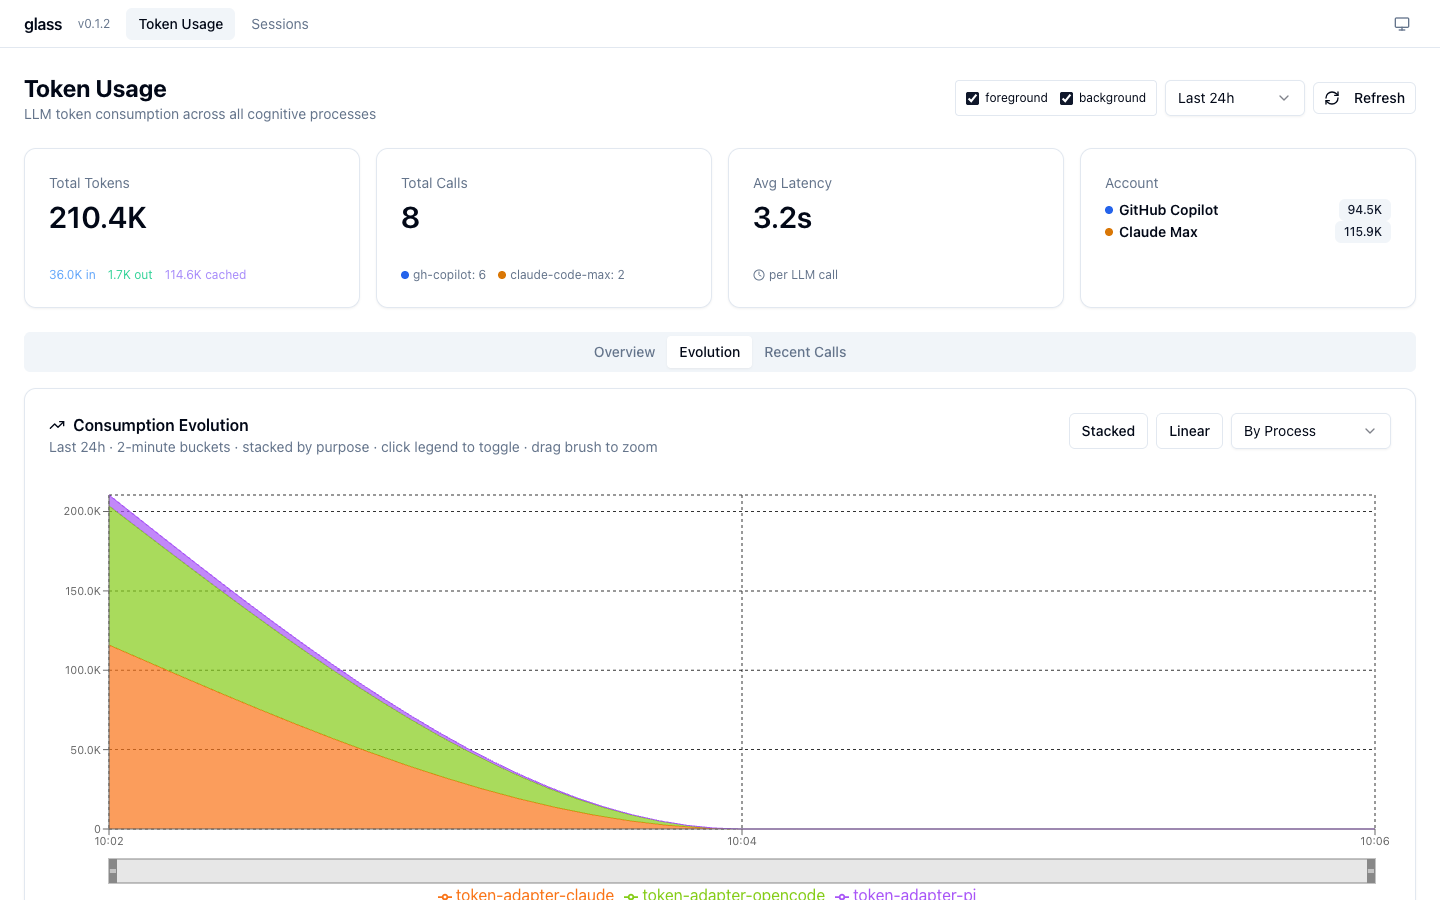
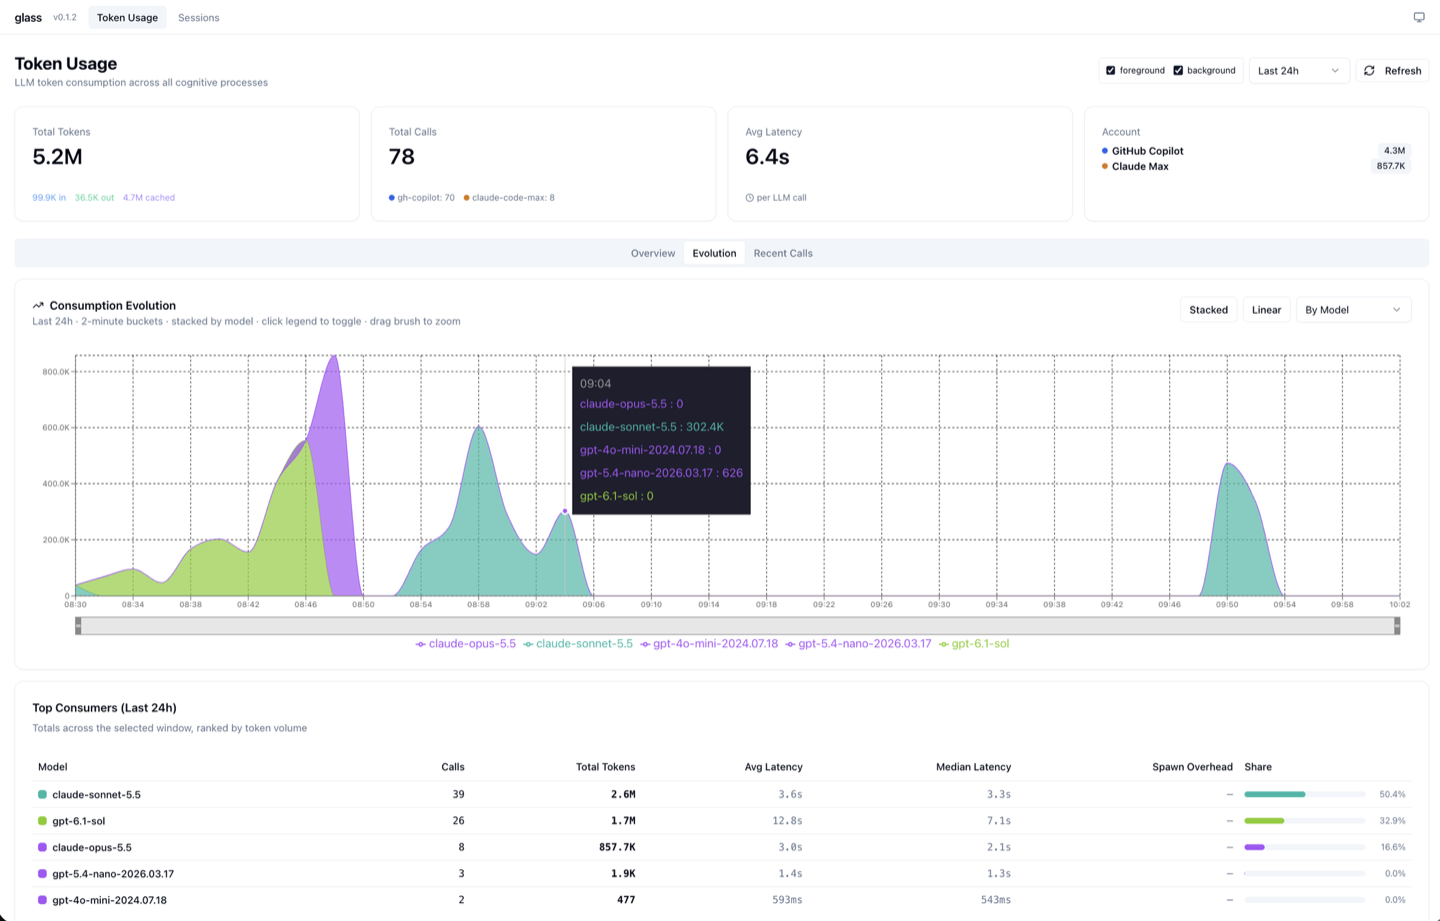
feat(glass): coding's [N:… P:…] badge, daemon version check, quiet EPIPE
- Status line: the network field is coding's badge (N:CN/VPN/OPEN/??,
  P:ON/AUTO/OFF) from the extracted lib/network probes and hysteresis,
  polled every 15s while a session is live (lib/glass/network.mjs); glass
  only observes. The net report shows location, local proxy and px toggle.
- An older daemon left running after an update is replaced when it has no
  live session; with sessions it is joined with a warning. status and
  doctor show a version mismatch.
- `glass status | head` no longer crashes with EPIPE.
- Docs: the Token Usage evolution screenshot (quick and deep tier), the
  status-line badge, troubleshooting.

diff --git a/glass/overlay/docs/_tiers/status-line.deep.md b/glass/overlay/docs/_tiers/status-line.deep.md
@@ -27,7 +27,7 @@ restores it afterwards.
 | health | `glass ●` | The daemon answers. `glass ✗ down` when it does not. |
 | context | `ctx ▋ 9%` | Prompt size of the session's latest main-loop turn (fresh + cache read + cache write) as a share of the model's context window. Side calls (titles, summaries) are skipped so the gauge does not drop to zero. |
 | tokens | `↑258.6K ↓233 ⚡66%` | Tokens sent (prompt) and received (output) in this session; ⚡ is the share of the latest prompt served from cache. |
-| network | `N:proxy` | Where the daemon's upstream traffic goes: `direct`, or via your corporate `proxy`. `¬tap` when the run uses `--no-intercept`. |
+| network | `N:CN P:ON` | The same badge as coding's status line, from the same probes. **N** — where the machine is: `CN` (corporate network, on-site), `VPN`, `OPEN` (home / public), `??` (not probed yet). **P** — the local proxy (proxydetox on `:3128`): `ON` (forwarding, `px` toggle on), `AUTO` (forwarding, toggle off), `OFF` (not listening or not forwarding). Click for the details and the daemon's own egress. `¬tap` when the run uses `--no-intercept`. |
 
 ## Clicks
 

diff --git a/glass/overlay/docs/_tiers/troubleshooting.deep.md b/glass/overlay/docs/_tiers/troubleshooting.deep.md
@@ -29,7 +29,10 @@ glass: daemon not reachable on 127.0.0.1:12445 — running claude unmeasured (lo
 
 The daemon reaches the model hosts through `HTTPS_PROXY` / `NO_PROXY` from the
 environment `glass` was started in. `glass doctor` shows the egress proxy it will use, and
-the status line shows `N:proxy` or `N:direct`.
+the network report (click the status line's `N:… P:…` field, or `glass report net`) shows
+it next to the network location and the local proxy's state. `N:CN` or `N:VPN` with
+`P:OFF` means you are on the corporate network without a working local proxy: external
+model hosts are unreachable.
 
 ## pi's GitHub Copilot login fails with 429
 

diff --git a/glass/overlay/docs/_tiers/token-usage.deep.md b/glass/overlay/docs/_tiers/token-usage.deep.md
@@ -29,7 +29,9 @@ cheaply.
 
 ![Token Usage evolution](images/ui-token-usage-evolution.png)
 
-Tokens over time in buckets, stacked by agent. Switch between *Stacked* and lines,
+Tokens over time in buckets — above, an hour and a half of agents stacked by model, with
+the tooltip on one bucket, and below it the top consumers of the window (calls, tokens,
+latency, share). Switch between *Stacked* and lines,
 linear and log scale, and grouping by process, model, provider, or input / output / cache. Click a legend entry to hide it;
 drag the brush below the chart to zoom into a time window.
 

diff --git a/glass/overlay/docs/token-usage.md b/glass/overlay/docs/token-usage.md
@@ -18,6 +18,8 @@ How many tokens your agents used — totals, trends and every single call.
 
     ![Token Usage overview](images/ui-token-usage-overview.png)
 
+    ![Token Usage evolution](images/ui-token-usage-evolution.png)
+
     Use the time range (top right) to look further back. **Next:** what filled those
     tokens — [Context Window](context-window.md).
 

diff --git a/glass/overlay/docs/status-line.md b/glass/overlay/docs/status-line.md
@@ -6,7 +6,7 @@ Context gauge and session tokens, live, in the terminal you work in.
 
     ## Four fields
 
-    `[glass ●] [ctx ▋ 9%] [↑258.6K ↓233 ⚡66%] [N:proxy]`
+    `[glass ●] [ctx ▋ 9%] [↑258.6K ↓233 ⚡66%] [N:CN P:ON]`
 
     | Field | Shows | Click |
     |---|---|---|
